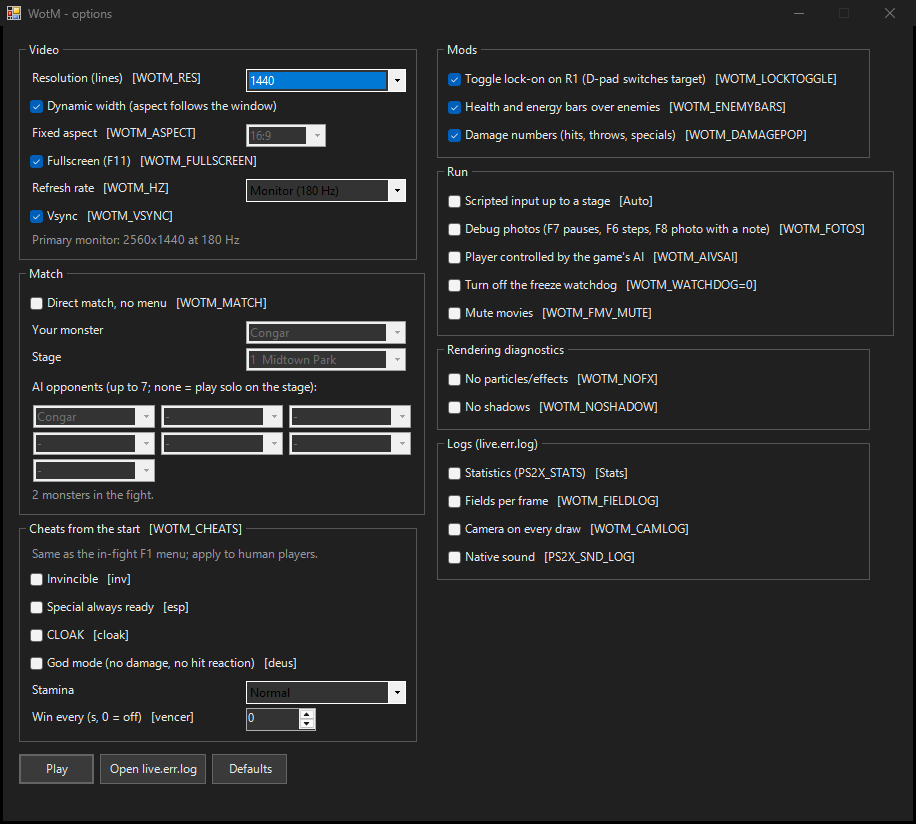
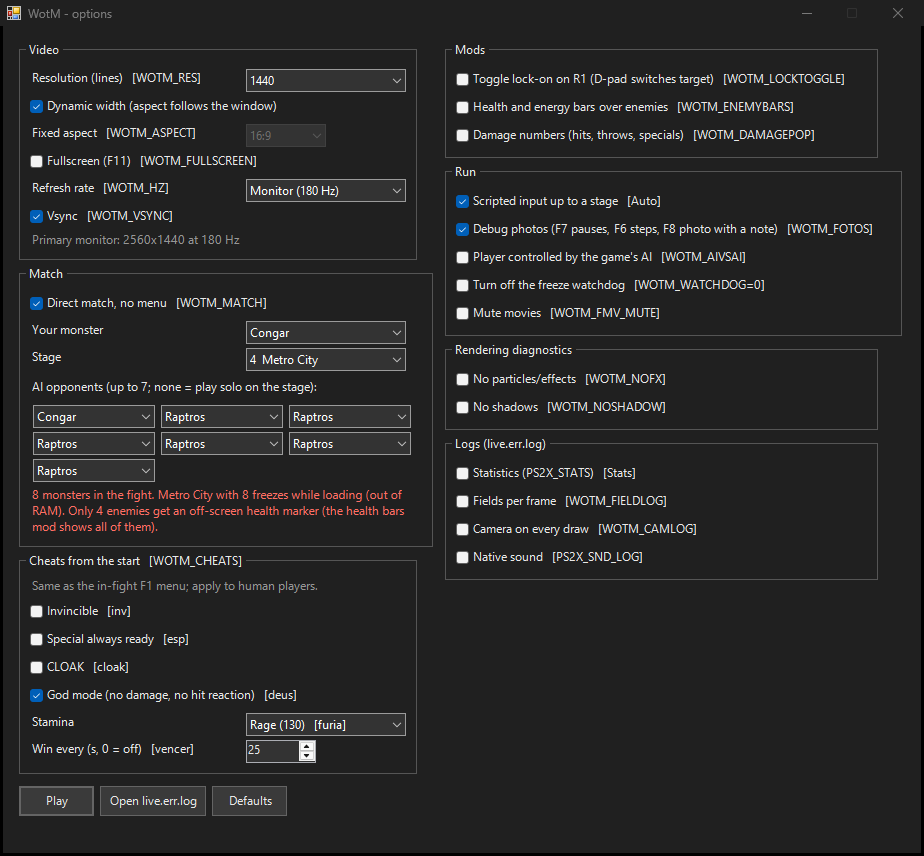
tools: listas do launcher no tema escuro nativo do Windows (DarkMode_CFD + SetPreferredAppMode), legiveis tambem desabilitadas
Claude-Session: https://claude.ai/code/session_0114iJRbR91G8vRBrTobQsET

Changed region(s): [[0.0, 0.0, 0.9476, 0.9709]]

diff --git a/tools/launcher/WotmLauncher.cs b/tools/launcher/WotmLauncher.cs
@@ -550,6 +550,11 @@ class Launcher : Form
 
     [DllImport("dwmapi.dll")]
     static extern int DwmSetWindowAttribute(IntPtr hwnd, int attr, ref int value, int size);
+    [DllImport("uxtheme.dll", CharSet = CharSet.Unicode)]
+    static extern int SetWindowTheme(IntPtr hwnd, string appName, string idList);
+    // SetPreferredAppMode (sem nome exportado, ordinal 135, Windows 10 1903+): 1 = segue o sistema; sem ele a lista aberta sai clara
+    [DllImport("uxtheme.dll", EntryPoint = "#135")]
+    static extern int SetPreferredAppMode(int mode);
 
     protected override void OnHandleCreated(EventArgs e)
     {
@@ -567,7 +572,14 @@ class Launcher : Form
     static void ApplyDark(Control c)
     {
         if (c.ForeColor == SystemColors.ControlText) c.ForeColor = FgColor;
-        if (c is ComboBox) { c.BackColor = InputColor; ((ComboBox)c).FlatStyle = FlatStyle.Flat; }
+        if (c is ComboBox)
+        {   // tema escuro nativo do Windows (o das caixas de arquivo): legivel tambem desabilitado, ao contrario do FlatStyle com cores
+            c.BackColor = InputColor;
+            Control cc = c;
+            EventHandler theme = delegate { try { SetWindowTheme(cc.Handle, "DarkMode_CFD", null); } catch (Exception) { } };
+            if (c.IsHandleCreated) theme(c, EventArgs.Empty);
+            else c.HandleCreated += theme;
+        }
         else if (c is NumericUpDown)
         {   // a cor tem que ir para a caixa de texto interna (UpDownEdit) tambem
             c.BackColor = InputColor;
@@ -589,6 +601,7 @@ class Launcher : Form
     static void Main()
     {
         Application.EnableVisualStyles();
+        if (Dark) try { SetPreferredAppMode(1); } catch (Exception) { }
         Application.Run(new Launcher());
     }
 }
